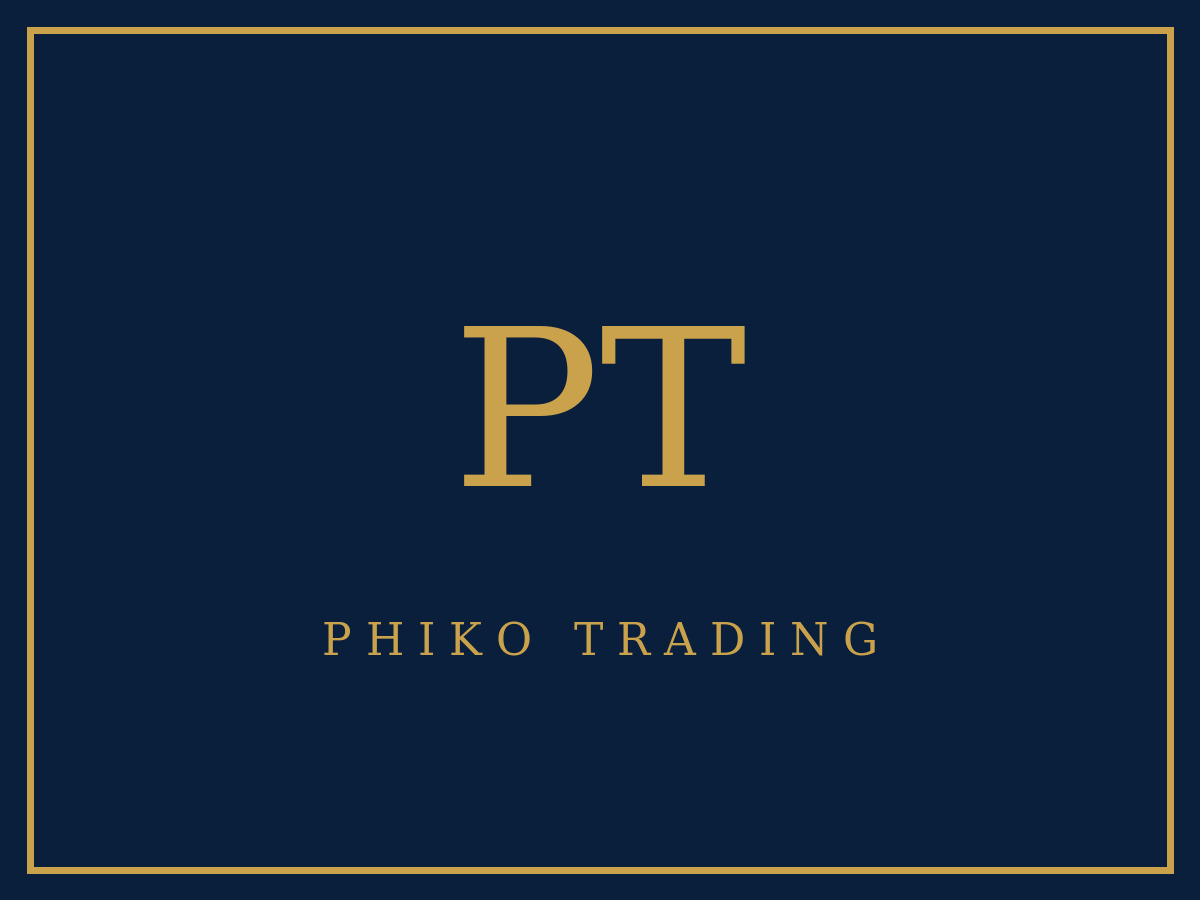
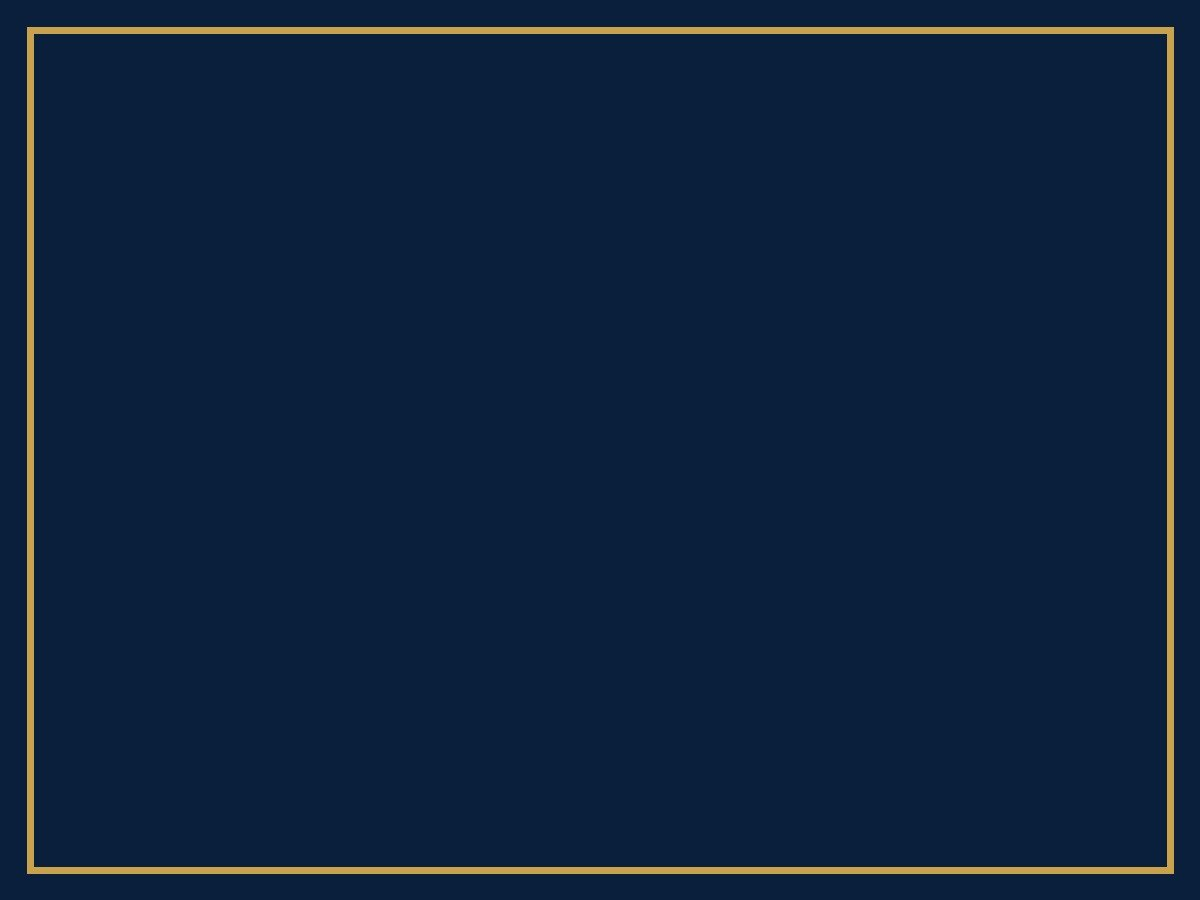
Remove fake 'PT' watermark from 7 images; local-first image serving
- OCR scan found an identical centered 'PT' + 'PHIKO TRADING' overlay
  (image-generator artefact, not real branding) in 7 photos; removed via
  inpainting, verified text-free across all 22 photos (only the real logo
  asset carries text)
- Site now serves committed assets/img/ copies directly; Cloudinary demoted
  to onerror fallback until clean assets are re-uploaded (USE_CLOUDINARY
  flag in js/config.js, default false)
- cloudinary-manifest.tsv now points at assets/img/ so the upload script
  refreshes Cloudinary with the clean committed files (no staging folder)
- README: strict image guidelines — no logos/monograms/watermarks/text on
  any photo; only the real logo asset may show branding
- IMAGE-INVENTORY.md: watermark incident documented

diff --git a/js/main.js b/js/main.js
@@ -1,7 +1,9 @@
 /**
  * PHIKO TRADING — site behaviour.
- * - Resolves every <img data-img-key> to its CLOUDINARY delivery URL (primary),
- *   with an optimized local copy as onerror fallback.
+ * - Resolves every <img data-img-key> to its source: the LOCAL committed copy
+ *   in assets/img/ by default, with the Cloudinary delivery URL as onerror
+ *   fallback (flip USE_CLOUDINARY in js/config.js to reverse the order once
+ *   clean assets are re-uploaded to Cloudinary).
  * - Mobile nav, sticky header, gallery filters + lightbox, contact links,
  *   and the booking-calendar placeholder (activated by PUBLIC_CALENDAR_NAME).
  */
@@ -11,17 +13,17 @@
   var CFG = window.PHIKO_CONFIG || {};
   var IMG = window.PHIKO_IMAGES;
 
-  /* ── 1. Wire images: Cloudinary primary src + local fallback ─────────── */
+  /* ── 1. Wire images: local assets first, Cloudinary as fallback ─────── */
   function resolveImages() {
     if (!IMG) return;
     document.querySelectorAll('img[data-img-key]').forEach(function (el) {
       var key = el.getAttribute('data-img-key');
       var w = parseInt(el.getAttribute('data-w') || '1200', 10);
-      var primary = IMG.url(key, { w: w });
-      var backup = IMG.fallback(key);
+      var primary = IMG.resolve(key, { w: w });
+      var backup = IMG.fallbackAlt(key, { w: w });
 
       if (!el.getAttribute('alt')) el.setAttribute('alt', IMG.alt(key));
-      // Keep the full-res Cloudinary key for the lightbox
+      // Keep the asset id for the lightbox
       el.setAttribute('data-cld-id', (IMG.registry[key] || {}).id || '');
 
       el.addEventListener('error', function onErr() {
@@ -105,11 +107,13 @@
       fig.addEventListener('click', function () {
         var img = fig.querySelector('img');
         var key = img.getAttribute('data-img-key');
-        var id = img.getAttribute('data-cld-id');
         var caption = fig.querySelector('figcaption');
-        // Request a larger Cloudinary rendition for the viewer
-        lbImg.src = IMG.url(key, { w: 1600 });
-        lbImg.onerror = function () { lbImg.onerror = null; lbImg.src = img.src; };
+        // Local-first (or Cloudinary if enabled), with the other source as backup
+        lbImg.src = IMG.resolve(key, { w: 1600 });
+        lbImg.onerror = function () {
+          lbImg.onerror = null;
+          lbImg.src = IMG.fallbackAlt(key, { w: 1600 }) || img.src;
+        };
         lbImg.alt = img.alt;
         lbCap.textContent = caption ? caption.textContent : '';
         lb.classList.add('open');

diff --git a/js/images.js b/js/images.js
@@ -17,7 +17,7 @@
   'use strict';
 
   var REGISTRY = {
-    /* key                 public_id                                 local fallback                      alt */
+    /* key                 public_id                                 alt */
     'logo':                { id: 'phikotrading-logo',                  alt: 'Phiko Trading logo — Construction, Luxury Estate' },
     'hero-marble-floor':   { id: 'phikotrading-hero-marble-floor',     alt: 'Polished marble-look porcelain floor tiles installed by Phiko Trading in a newly renovated room' },
     'svc-tiling':          { id: 'phikotrading-svc-tiling',            alt: 'Professional tiler laying large-format grey porcelain floor tiles with a leveling clip system' },
@@ -74,10 +74,34 @@
     return asset ? asset.alt : '';
   }
 
+  /**
+   * Primary source for <img> tags.
+   *
+   * The site is LOCAL-FIRST by default: the committed, verified-clean copies in
+   * assets/img/ are served directly. Set USE_CLOUDINARY: true in js/config.js
+   * ONLY after re-uploading the clean assets with scripts/upload-cloudinary.sh
+   * (the previously uploaded Cloudinary copies contain an unwanted "PT"
+   * watermark and must not be displayed).
+   *
+   * @returns {string} local path (default) or Cloudinary URL
+   */
+  function resolveSrc(key, opts) {
+    var cfg = window.PHIKO_CONFIG || {};
+    return cfg.USE_CLOUDINARY ? cloudinaryUrl(key, opts) : localFallbackUrl(key);
+  }
+
+  /** The secondary source used as onerror fallback (the opposite of resolveSrc). */
+  function fallbackSrc(key, opts) {
+    var cfg = window.PHIKO_CONFIG || {};
+    return cfg.USE_CLOUDINARY ? localFallbackUrl(key) : cloudinaryUrl(key, opts);
+  }
+
   window.PHIKO_IMAGES = {
     registry: REGISTRY,
     url: cloudinaryUrl,
     fallback: localFallbackUrl,
+    resolve: resolveSrc,
+    fallbackAlt: fallbackSrc,
     alt: altText,
   };
 })();

diff --git a/js/config.js b/js/config.js
@@ -12,6 +12,12 @@ window.PHIKO_CONFIG = {
   CLOUDINARY_UPLOAD_PRESET: 'phikotrading', // Signing mode: Unsigned
   CLOUDINARY_ASSET_FOLDER: '',              // "No folders" — root-level public IDs
 
+  // Serve images from Cloudinary instead of the local assets/img/ copies.
+  // KEEP THIS FALSE until the clean (watermark-free) assets have been
+  // re-uploaded with:  bash scripts/upload-cloudinary.sh
+  // (the old Cloudinary copies carry an unwanted "PT" logo watermark)
+  USE_CLOUDINARY: false,
+
   // Booking calendar — the owner will provide the calendar name separately.
   // Once provided, set it here and in .env (PUBLIC_CALENDAR_NAME).
   PUBLIC_CALENDAR_NAME: '',

diff --git a/README.md b/README.md
@@ -1,11 +1,45 @@
 # PHIKO TRADING — Website
 
 Marketing website for **Phiko Trading — Construction • Luxury Estate**
-(Tiling · Plumbing · Renovations · Building · Paving · TAR Surfacing — KZN, South Africa).
-
-Source imagery was extracted from `phikotrading images.zip`, individually inspected
+(Tiling · Plumbing · Renovations · Building · Paving · TAR Surfacing — KZN, South Africa).Source imagery was extracted from `phikotrading images.zip`, individually inspected
 (see `IMAGE-INVENTORY.md`), and recreated as clean, text-free, high-resolution
 photographs that preserve the original subjects (no stock photos).
+
+## Image guidelines (strict)
+
+1. **No logos, monograms, watermarks or text overlays** may ever be added to any
+   photo — not "PT", not "PHIKO TRADING", nothing. A batch generated earlier
+   carried a fake centered "PT" watermark; those images were cleaned and the
+   watermark must never return.
+2. The **only** permitted branding on the entire site is the real logo asset
+   `assets/img/phikotrading-logo.jpg` (Cloudinary `phikotrading-logo`), used in
+   the header and footer.
+3. When (re)generating or editing any photo, always include in the prompt:
+   *"no text, no letters, no logos, no watermarks, no branding anywhere"* —
+   and verify the result (OCR check) before publishing.
+4. Photos must look clean, professional and authentic: real job sites, natural
+   lighting, no placeholders, no unrelated objects.
+
+## Serving images (local-first)
+
+The site serves the committed, verified-clean copies in `assets/img/` directly.
+`USE_CLOUDINARY` in `js/config.js` is **false** by default; the old copies on
+Cloudinary still carry the "PT" watermark. After re-uploading the clean assets
+(below), you may flip it to `true` to serve from the CDN instead.
+
+## Refreshing Cloudinary with the clean images (one command)
+
+The manifest now points directly at the committed clean assets — no staging
+folder needed:
+
+```bash
+bash scripts/upload-cloudinary.sh          # uploads + verifies every URL is 200
+bash scripts/upload-cloudinary.sh --verify-only
+```
+
+Run it from your own machine (needs curl; no API secret required — unsigned
+preset). It overwrites each public ID with the clean version, so every
+Cloudinary URL the site could use becomes watermark-free.
 
 ## Cloudinary configuration
 

diff --git a/IMAGE-INVENTORY.md b/IMAGE-INVENTORY.md
@@ -87,3 +87,24 @@ Every original file is a **marketing flyer, brand card, or raw project photo** f
 ## Final Cloudinary asset set (24 assets, root-level public IDs, no folders)
 Tags applied on upload: `phikotrading` + one of `brand, hero, tiling, bathroom, plumbing, building, paving, tar, renovations, about`.
 Full mapping with alt text: `scripts/cloudinary-manifest.tsv`.
+
+## Watermark incident — 2026-08-28
+
+A batch of generated images carried a fake centered "PT" monogram with
+"PHIKO TRADING" text stamped at identical coordinates (an artefact of the image
+generator, NOT real company branding). Detected by OCR in 7 images and removed:
+
+| Image | Status |
+|---|---|
+| `phikotrading-bathroom-tub-marble` | watermark removed |
+| `phikotrading-house-roof-construction` | watermark removed |
+| `phikotrading-paving-interlocking-grey` | watermark removed |
+| `phikotrading-staircase-grey` | watermark removed |
+| `phikotrading-tar-farm-road-silos` | watermark removed |
+| `phikotrading-tiling-darkwood-orange` | watermark removed |
+| `phikotrading-tiling-redclips-bathroom` | watermark removed |
+
+All other photos verified text-free. The only sanctioned branding on the site
+is the real logo asset `phikotrading-logo`. Rule going forward: no logos,
+monograms, watermarks or text overlays on any photo, ever (see README
+"Image guidelines").
